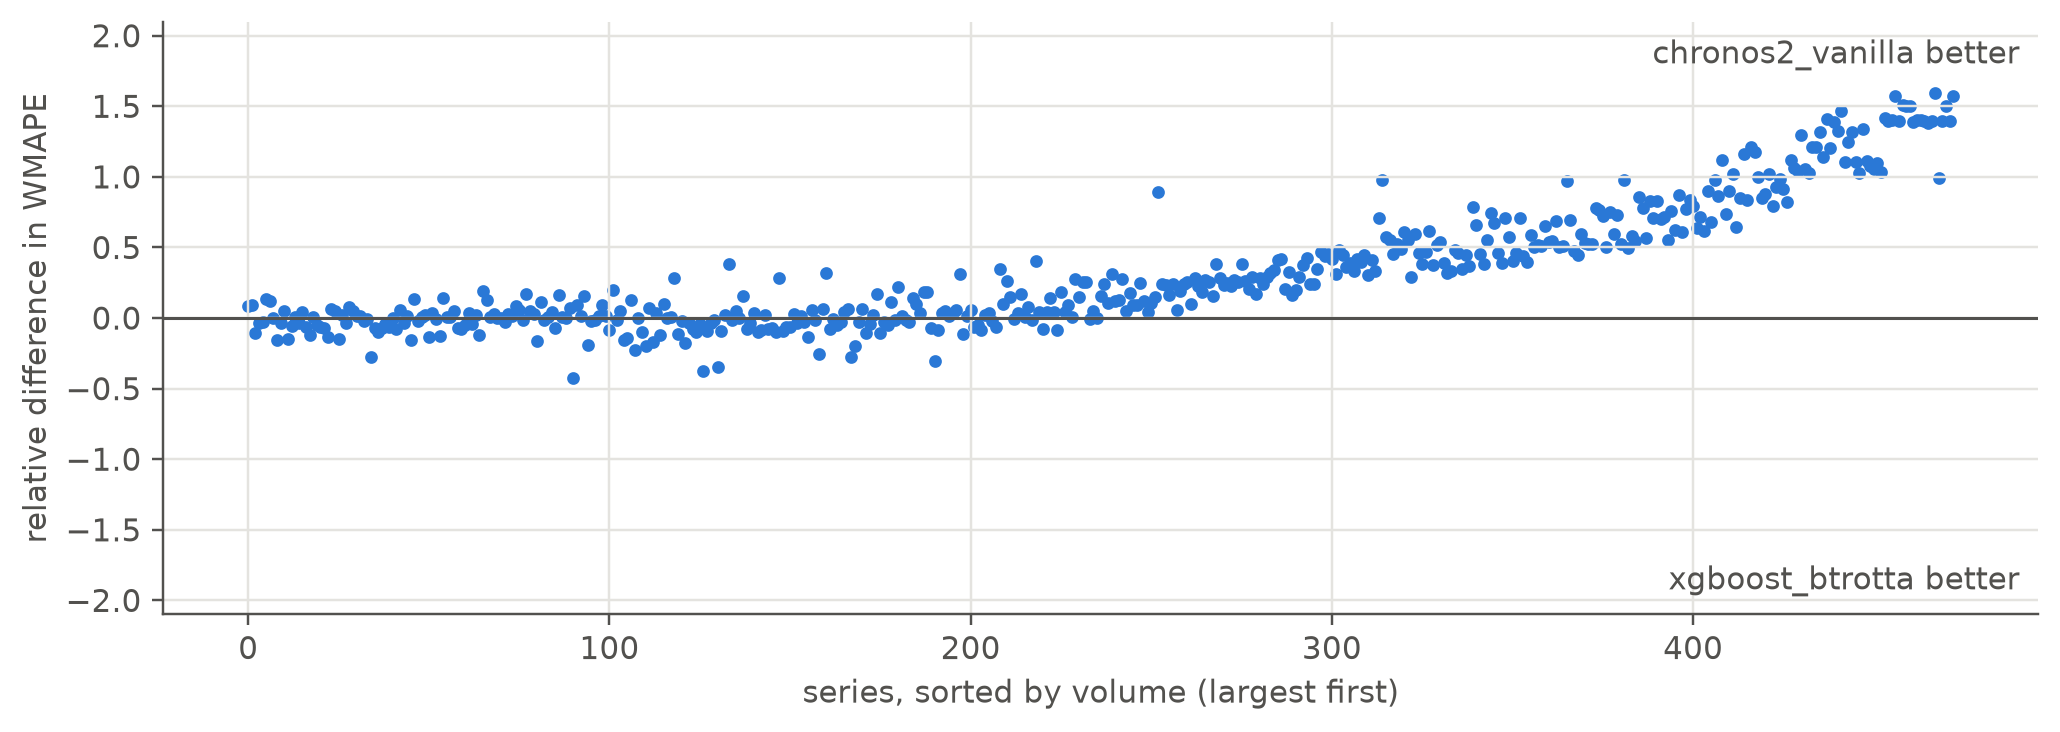
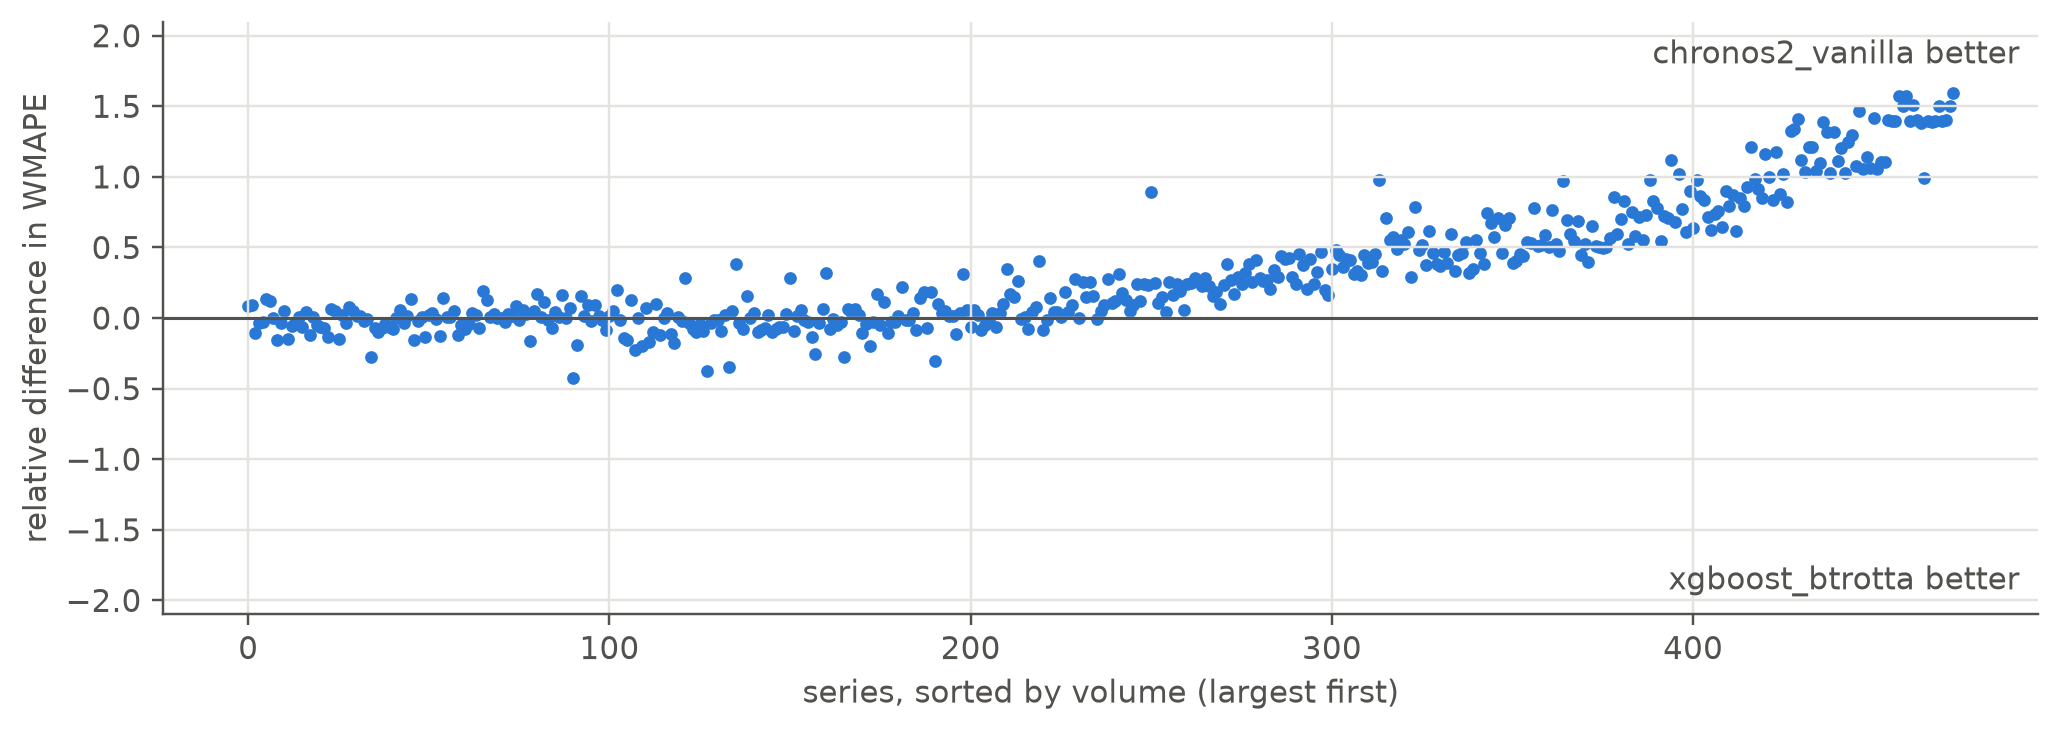
Built site for gh-pages

diff --git a/posts/01-xgboost/index.html b/posts/01-xgboost/index.html
@@ -665,9 +665,10 @@ Figure&nbsp;3: Per-series difference in WQL, XGBoost against the 28-day mean, se
 <section id="what-the-baseline-settles" class="level2">
 <h2 class="anchored" data-anchor-id="what-the-baseline-settles">What the baseline settles</h2>
 <p>Three things carry into the next post.</p>
-<p><strong>The dataset’s difficulty.</strong> As we showed, this prediction problem is made much harder by the low volume of the series (which are integer values, so it isn’t just a matter of scaling).</p>
-<p><strong>A number to beat.</strong> WMAPE 78.8 on validation, 76.4 on test (pooled over the whole forecast horizon) — and the honest framing is that most of that was already available from a 28-day mean (79.6 and 77.6), despite how rough of an estimate it is.</p>
-<p><strong>A caveat.</strong> XGBoost is trained on squared error, so it estimates a conditional mean. On absolute-error metrics the optimal point forecast is the <em>median</em>, so any model that returns a median starts with a structural advantage on MAE and WMAPE that has nothing to do with forecasting better. However, Chronos-2 returns a median. Moreover, because it is distributional, Chronos-2 has a slight edge. When looking at WQL, without regards to if the derived point forecast is actually better. So in case of a tight match, strong conclusions could be risky.</p>
+<p><strong>The dataset’s difficulty.</strong> As we showed, this prediction problem is made much harder by the <strong>low volume</strong> of the series (which are integer values, so it isn’t just a matter of scaling).</p>
+<p><strong>A number to beat.</strong> <strong>WMAPE 78.8 on validation, 76.4 on test</strong> (pooled over the whole forecast horizon) — and the honest framing is that most of that was already available from a 28-day mean (79.6 and 77.6), despite how rough of an estimate it is.</p>
+<p><strong>A caveat.</strong> XGBoost is trained on squared error, so it estimates a conditional mean. On absolute-error metrics the optimal point forecast is the <em>median</em>, so any model that returns a median starts with a structural advantage on MAE and WMAPE that has nothing to do with forecasting better. However, Chronos-2 returns a median. Moreover, because it is distributional, Chronos-2 has a slight edge. When looking at WQL, without regards to if the derived point forecast is actually better. <strong>So in case of a tight match, strong conclusions would be unfaithful.</strong></p>
+<p><a href="../02-chronos2/">Next page</a></p>
 
 
 <!-- -->
@@ -1407,10 +1408,10 @@ Figure&nbsp;3: Per-series difference in WQL, XGBoost against the 28-day mean, se
 <span id="cb6-297"><a href="#cb6-297" aria-hidden="true" tabindex="-1"></a></span>
 <span id="cb6-298"><a href="#cb6-298" aria-hidden="true" tabindex="-1"></a>Three things carry into the next post.</span>
 <span id="cb6-299"><a href="#cb6-299" aria-hidden="true" tabindex="-1"></a></span>
-<span id="cb6-300"><a href="#cb6-300" aria-hidden="true" tabindex="-1"></a>**The dataset's difficulty.** As we showed, this prediction problem is made much harder by the low </span>
-<span id="cb6-301"><a href="#cb6-301" aria-hidden="true" tabindex="-1"></a>volume of the series (which are integer values, so it isn't just a matter of scaling).</span>
+<span id="cb6-300"><a href="#cb6-300" aria-hidden="true" tabindex="-1"></a>**The dataset's difficulty.** As we showed, this prediction problem is made much harder by the **low </span>
+<span id="cb6-301"><a href="#cb6-301" aria-hidden="true" tabindex="-1"></a>volume** of the series (which are integer values, so it isn't just a matter of scaling).</span>
 <span id="cb6-302"><a href="#cb6-302" aria-hidden="true" tabindex="-1"></a></span>
-<span id="cb6-303"><a href="#cb6-303" aria-hidden="true" tabindex="-1"></a>**A number to beat.** WMAPE <span class="in">`{python} f"{wmape('xgboost_btrotta', 'validation'):.1f}"`</span> on validation, <span class="in">`{python} f"{wmape('xgboost_btrotta', 'test'):.1f}"`</span> on test (pooled over the whole forecast horizon) — and the honest framing is</span>
+<span id="cb6-303"><a href="#cb6-303" aria-hidden="true" tabindex="-1"></a>**A number to beat.** **WMAPE `{python} f"{wmape('xgboost_btrotta', 'validation'):.1f}"` on validation, `{python} f"{wmape('xgboost_btrotta', 'test'):.1f}"` on test** (pooled over the whole forecast horizon) — and the honest framing is</span>
 <span id="cb6-304"><a href="#cb6-304" aria-hidden="true" tabindex="-1"></a>that most of that was already available from a 28-day mean (<span class="in">`{python} f"{wmape('moving_average_28d', 'validation'):.1f}"`</span> and <span class="in">`{python} f"{wmape('moving_average_28d', 'test'):.1f}"`</span>), despite how rough of an estimate it is.</span>
 <span id="cb6-305"><a href="#cb6-305" aria-hidden="true" tabindex="-1"></a></span>
 <span id="cb6-306"><a href="#cb6-306" aria-hidden="true" tabindex="-1"></a>**A caveat.** XGBoost is trained on squared error, so it estimates a</span>
@@ -1418,8 +1419,10 @@ Figure&nbsp;3: Per-series difference in WQL, XGBoost against the 28-day mean, se
 <span id="cb6-308"><a href="#cb6-308" aria-hidden="true" tabindex="-1"></a>any model that returns a median starts with a structural advantage on MAE and WMAPE that has</span>
 <span id="cb6-309"><a href="#cb6-309" aria-hidden="true" tabindex="-1"></a>nothing to do with forecasting better. However, Chronos-2 returns a median. Moreover, because </span>
 <span id="cb6-310"><a href="#cb6-310" aria-hidden="true" tabindex="-1"></a>it is distributional, Chronos-2 has a slight edge. When looking at WQL, without regards to </span>
-<span id="cb6-311"><a href="#cb6-311" aria-hidden="true" tabindex="-1"></a>if the derived point forecast is actually better. So in case of a tight</span>
-<span id="cb6-312"><a href="#cb6-312" aria-hidden="true" tabindex="-1"></a>match, strong conclusions could be risky.</span>
+<span id="cb6-311"><a href="#cb6-311" aria-hidden="true" tabindex="-1"></a>if the derived point forecast is actually better. **So in case of a tight</span>
+<span id="cb6-312"><a href="#cb6-312" aria-hidden="true" tabindex="-1"></a>match, strong conclusions would be unfaithful.**</span>
+<span id="cb6-313"><a href="#cb6-313" aria-hidden="true" tabindex="-1"></a></span>
+<span id="cb6-314"><a href="#cb6-314" aria-hidden="true" tabindex="-1"></a><span class="co">[</span><span class="ot">Next page</span><span class="co">](../02-chronos2/)</span></span>
 </code></pre></div><button title="Copy to Clipboard" class="code-copy-button" data-in-quarto-modal=""><i class="bi"></i></button></div>
 </div></div></div></div></div>
 </div> <!-- /content -->

diff --git a/index.html b/index.html
@@ -223,7 +223,7 @@ window.Quarto = {
 <p>The order matters, as it is a linear progression through experiments, observations, and interpretations.</p>
 <div id="listing-series" class="quarto-listing quarto-listing-container-default">
 <div class="list quarto-listing-default">
-<div class="quarto-post image-right" data-index="0" data-categories="TTUlMkNYR0Jvb3N0JTJDZXZhbHVhdGlvbg==" data-listing-date-sort="1793487600000" data-listing-file-modified-sort="1795172997664" data-listing-date-modified-sort="NaN" data-listing-reading-time-sort="12" data-listing-word-count-sort="2357">
+<div class="quarto-post image-right" data-index="0" data-categories="TTUlMkNYR0Jvb3N0JTJDZXZhbHVhdGlvbg==" data-listing-date-sort="1793487600000" data-listing-file-modified-sort="1795262433493" data-listing-date-modified-sort="NaN" data-listing-reading-time-sort="12" data-listing-word-count-sort="2358">
 <div class="body">
 <h3 class="no-anchor listing-title">
 <a href="./posts/01-xgboost/index.html" class="no-external">The baseline: XGBoost</a>

diff --git a/posts/02-chronos2/index.html b/posts/02-chronos2/index.html
@@ -915,7 +915,7 @@ Figure&nbsp;7: Test window, by horizon bucket.
 <div id="fig-final-examples" class="quarto-float quarto-figure quarto-figure-center anchored">
 <figure class="quarto-float quarto-float-fig figure">
 <div aria-describedby="fig-final-examples-caption-0ceaefa1-69ba-4598-a22c-09a6ac19f8ca">
-<img src="index_files/figure-html/fig-final-examples-output-1.png" width="1209" height="1089" class="figure-img">
+<img src="index_files/figure-html/fig-final-examples-output-1.png" width="1204" height="1089" class="figure-img">
 </div>
 <figcaption class="quarto-float-caption-bottom quarto-float-caption quarto-float-fig" id="fig-final-examples-caption-0ceaefa1-69ba-4598-a22c-09a6ac19f8ca">
 Figure&nbsp;8: Four test-window series at the 98th, 75th, 50th and 25th percentile of volume. Bands: the final model’s quantiles. Dots: what sold.
